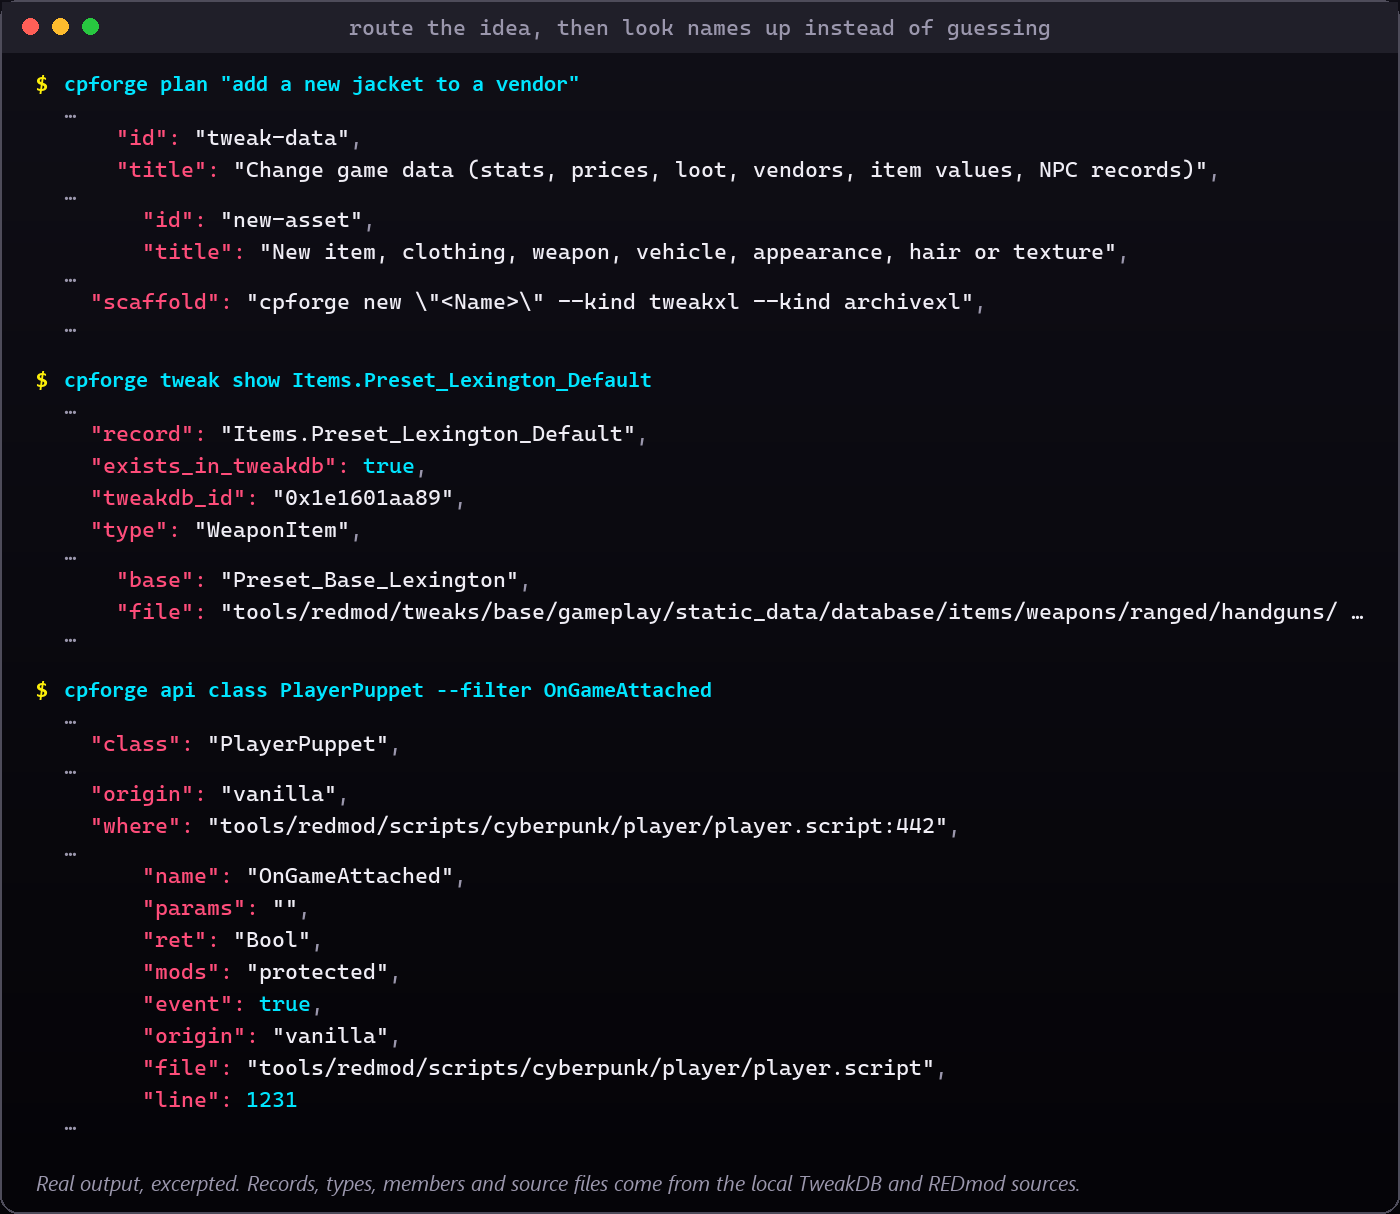
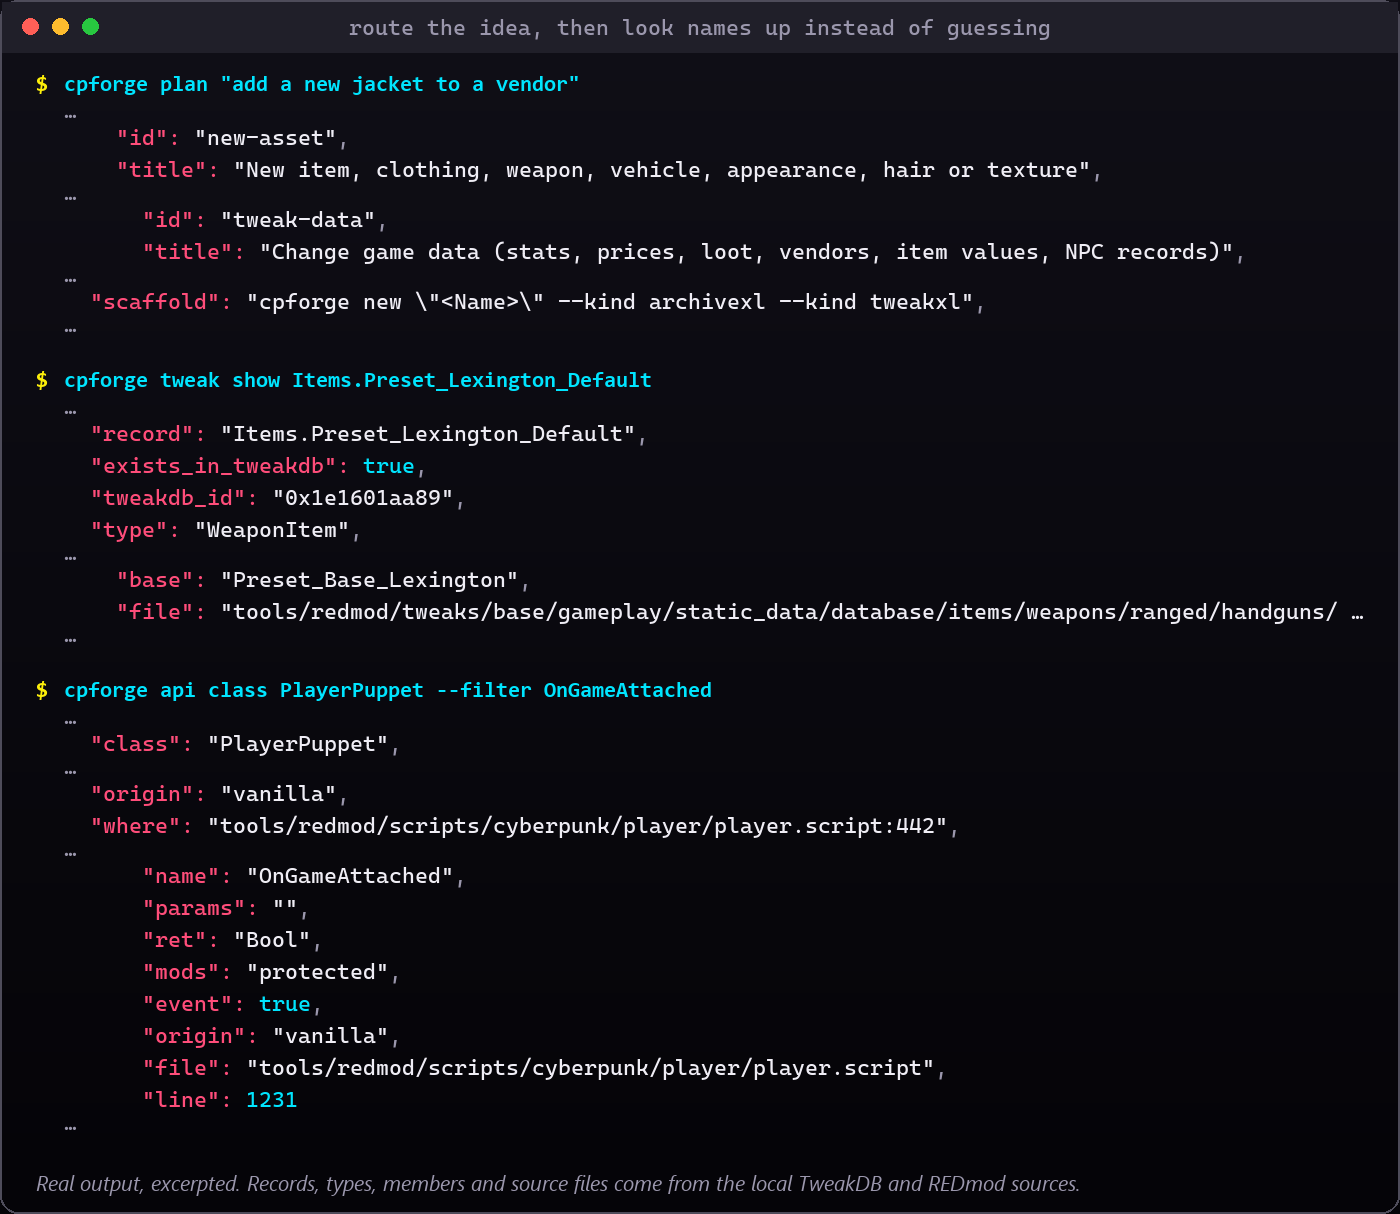
Cyberpunk Forge 0.6.2: garment words in plan match whole words only
"skirt" matched inside "outskirts" (0.6.1 regression). Garment words move to
a whole-word list on the new-asset route, plurals included, and weigh like a
multi-word keyword, so "add a skirt to a vendor" routes to new-asset first.
README plan shot regenerated from a real run.

Changed region(s): [[0.1536, 0.0914, 0.86, 0.2133], [0.5221, 0.1829, 0.86, 0.2133], [0.4607, 0.2438, 0.6757, 0.2743]]

diff --git a/tests/test_cpforge.py b/tests/test_cpforge.py
@@ -885,6 +885,15 @@ class CliTests(Base):
             self.assertEqual(run_cli("plan", text)[1]["route"]["id"], "new-asset", text)
         self.assertNotEqual(run_cli("plan", "fix the address of a quest marker")[1]["route"]["id"], "new-asset")
 
+    def test_plan_garment_words_match_whole_words_only(self):
+        # "skirt" used to match inside "outskirts".
+        d = run_cli("plan", "a camp in the outskirts")[1]
+        self.assertNotEqual((d["route"] or {}).get("id"), "new-asset")
+        self.assertNotIn("new-asset", [a["id"] for a in d["also_relevant"]])
+        self.assertEqual(run_cli("plan", "add a skirt to a vendor")[1]["route"]["id"], "new-asset")
+        self.assertEqual(run_cli("plan", "two new skirts and some hats")[1]["route"]["id"], "new-asset")
+        self.assertNotEqual((run_cli("plan", "horseshoes for a quest")[1]["route"] or {}).get("id"), "new-asset")
+
     def test_api_and_tweak_commands(self):
         self.assertEqual(run_cli("index")[0], 0)
         code, d = run_cli("api", "class", "PlayerPuppet", "--filter", "Attached")

diff --git a/src/cpforge/knowledge.py b/src/cpforge/knowledge.py
@@ -42,6 +42,12 @@ def plan(request: str) -> dict:
             if f" {kw} " in text or (len(kw) > 4 and kw in text):
                 score += 2 if " " in kw else 1
                 hits.append(kw)
+        # "words" match whole words only (plural s/es allowed): "skirt" must not hit "outskirts".
+        # They name the asset outright, so they weigh like a multi-word keyword.
+        for w in r.get("words", []):
+            if re.search(r"(?<![a-z0-9])" + re.escape(w) + r"(?:s|es)?(?![a-z0-9])", text):
+                score += 2
+                hits.append(w)
         if score:
             scored.append((score, r, hits))
     scored.sort(key=lambda x: -x[0])

diff --git a/src/cpforge/__init__.py b/src/cpforge/__init__.py
@@ -2,4 +2,4 @@
 
 # The one place that owns the version. pyproject.toml reads it; tests check
 # CHANGELOG.md, STATE.md and the skill against it.
-__version__ = "0.6.1"
+__version__ = "0.6.2"

diff --git a/README.md b/README.md
@@ -33,7 +33,7 @@ only when you run `cpforge deploy`.
 - **Release kit.** `package` makes a deterministic zip with a SHA-256 and a receipt. `validate` checks any mod zip for layout mistakes, dev files and leaked API keys. `bump` moves the version everywhere and keeps the last good zip, and `nexus` writes the page text.
 - **JSON everywhere.** Every command prints one JSON object and exits with a stable code: 0 ok, 1 findings, 2 a named failure with a `fix`, 3 a forge bug. People can read it, and scripts and agents can parse it.
 
-![Terminal: cpforge doctor reports forge 0.6.1 with CLI, payload and game status ok, the game folder Cyberpunk 2077 at file version 3.0.88.46235 (patch 2.5, Phantom Liberty installed), and the installed frameworks RED4ext 1.31.1.0, redscript, Cyber Engine Tweaks 1.38.1.0 and ArchiveXL 1.28.8.45702](docs/presentation/screenshot-doctor.png)
+![Terminal: cpforge doctor reports forge 0.6.2 with CLI, payload and game status ok, the game folder Cyberpunk 2077 at file version 3.0.88.46235 (patch 2.5, Phantom Liberty installed), and the installed frameworks RED4ext 1.31.1.0, redscript, Cyber Engine Tweaks 1.38.1.0 and ArchiveXL 1.28.8.45702](docs/presentation/screenshot-doctor.png)
 
 ## Install
 
@@ -120,7 +120,7 @@ commands and their options as JSON, generated from the parser.
 | Version and Nexus page | `cpforge bump major\|minor\|patch\|X.Y.Z` · `cpforge nexus` |
 | Build a new drivable car (step-by-step notes from a finished car build) | `cpforge plan "new drivable car"` · `cpforge knowledge vehicles` |
 
-![Terminal: cpforge plan "add a new jacket to a vendor" picks the tweak-data route, lists new-asset as also relevant and scaffolds --kind tweakxl --kind archivexl; cpforge tweak show Items.Preset_Lexington_Default confirms the record exists in TweakDB as a WeaponItem based on Preset_Base_Lexington, with its vanilla .tweak file; cpforge api class PlayerPuppet --filter OnGameAttached shows the vanilla protected event OnGameAttached returning Bool and the script file and line it is declared in](docs/presentation/screenshot-plan-lookup.png)
+![Terminal: cpforge plan "add a new jacket to a vendor" picks the new-asset route, lists tweak-data as also relevant and scaffolds --kind archivexl --kind tweakxl; cpforge tweak show Items.Preset_Lexington_Default confirms the record exists in TweakDB as a WeaponItem based on Preset_Base_Lexington, with its vanilla .tweak file; cpforge api class PlayerPuppet --filter OnGameAttached shows the vanilla protected event OnGameAttached returning Bool and the script file and line it is declared in](docs/presentation/screenshot-plan-lookup.png)
 
 ## Templates
 

diff --git a/STATE.md b/STATE.md
@@ -1,6 +1,6 @@
 # STATE
 
-Version: **0.6.1** (2026-11-25)
+Version: **0.6.2** (2026-11-25)
 
 ## Goal
 
@@ -8,7 +8,19 @@ A local, agent-friendly toolkit for every kind of Cyberpunk 2077 mod:
 redscript, CET, TweakXL, ArchiveXL, RED4ext, Input Loader, Mod Settings,
 Audioware, REDmod. Facts come from the installed game.
 
+## Done (0.6.2) - whole-word garment routing
+
+- 0.6.1 regression: `skirt` matched inside "outskirts". Garment words moved to
+  a whole-word `words` list on the new-asset route (plurals s/es), weight 2.
+  "add a skirt to a vendor" -> new-asset; "a camp in the outskirts" and
+  "horseshoes for a quest" -> not new-asset. 77 tests.
+
 ## Done (0.6.1) - README presentation and audit
+
+- Released: CI + CodeQL green on 7bd3760; tag v0.6.1 published by the Release
+  workflow; downloaded zip SHA-256 cfefc824...ef043 matches a local
+  `TZ=UTC git archive` of 7bd3760. Docs follow-up 32dc073: CI + CodeQL green.
+  Open alerts after both pushes: code scanning 0, Dependabot 0, secret 0.
 
 - Baseline: 74/74 tests, doctor ok on 2.5 (exit 0).
 - Field report closed: `cpforge.cmd` venv branch returned the pre-run

diff --git a/skills/cyberpunk-forge/SKILL.md b/skills/cyberpunk-forge/SKILL.md
@@ -3,7 +3,7 @@ name: cyberpunk-forge
 description: Make, check, fix, package and publish Cyberpunk 2077 mods with Cyberpunk Forge (cpforge). Use for redscript, Cyber Engine Tweaks Lua, TweakXL, ArchiveXL, RED4ext C++ plugins, Input Loader, Mod Settings, Audioware, REDmod, WolvenKit archives, mod conflicts, broken mods after a game patch, redscript compile errors, CET errors, and Nexus releases.
 ---
 
-# Cyberpunk Forge (cpforge 0.6.1)
+# Cyberpunk Forge (cpforge 0.6.2)
 
 Use the forge as the evidence layer. Never write a class, method, record or
 resource path from memory when `cpforge` can read it from the installed game.

diff --git a/CHANGELOG.md b/CHANGELOG.md
@@ -1,5 +1,14 @@
 # Changelog
 
+## 0.6.2 - 2026-11-25
+
+- `cpforge plan`: garment words (jacket, coat, shirt, skirt, hat, glasses and
+  the rest) now match whole words only, plurals included. In 0.6.1 "skirt"
+  matched inside "outskirts" and sent location requests to the new-asset
+  route. A garment word now names the asset outright, so "add a skirt to a
+  vendor" routes to new-asset first, with tweak-data as also relevant, and
+  scaffolds `--kind archivexl --kind tweakxl`.
+
 ## 0.6.1 - 2026-11-25
 
 - `cpforge.cmd` (run from the source folder) now returns the forge's exit code.
